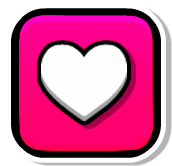
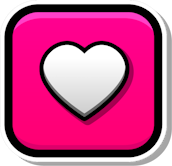
update textures!

diff --git a/src/globed/integrity.cpp b/src/globed/integrity.cpp
@@ -10,7 +10,7 @@ using namespace geode::prelude;
 static bool g_checked = false;
 static bool g_disable = false;
 static bool g_fallbackMenuButton = false;
-constexpr auto RESOURCE_DUMMY = "dummy-icon1.png"_spr;
+constexpr auto RESOURCE_DUMMY = "dummy-icon2.png"_spr;
 
 bool globed::softDisabled() {
     if (!g_checked) {
@@ -131,11 +131,11 @@ globed::IntegrityReport globed::getIntegrityReport() {
         log::error("Failed to find globedsheet1.plist (critical!)");
         report.sheetIntegrity = SheetIntegrity::MissingPlist;
     } else if (!asp::fs::equivalent(pngParent, plistParent).unwrapOr(false)) {
-        log::debug("Mismatch, globedsheet1.plist and globedsheet1.png are in different places ({} and {})", p, plist);
+        log::warn("Mismatch, globedsheet1.plist and globedsheet1.png are in different places ({} and {})", p, plist);
         report.sheetIntegrity = SheetIntegrity::Ok;
         report.sheetFilesSeparated = true;
     } else if (!asp::fs::equivalent(pngParent, Mod::get()->getResourcesDir())) {
-        log::debug("Mismatch, globedsheet1 expected in {}, found at {}", Mod::get()->getResourcesDir(), p);
+        log::warn("Mismatch, globedsheet1 expected in {}, found at {}", Mod::get()->getResourcesDir(), p);
         report.sheetIntegrity = SheetIntegrity::Ok;
         report.sheetFilesModified = true;
     }
@@ -155,7 +155,7 @@ globed::IntegrityReport globed::getIntegrityReport() {
 
     if (asp::fs::exists(impostorFolderLoc)) {
         report.impostorFolder = impostorFolderLoc;
-        log::debug("Impostor folder found: {}", impostorFolderLoc.string());
+        log::warn("Impostor folder found: {}", impostorFolderLoc.string());
     }
 
     // check for menuicon.png and dummy-icon1.png

diff --git a/src/ui/menu/main/globed_menu_layer.cpp b/src/ui/menu/main/globed_menu_layer.cpp
@@ -137,7 +137,7 @@ bool GlobedMenuLayer::init() {
     }
 
     // discord button
-    discordButton = Build<CCSprite>::createSpriteName("gj_discordIcon_001.png")
+    discordButton = Build<CCSprite>::createSpriteName("icon-discord.png"_spr)
         .scale(1.35f)
         .intoMenuItem([](auto) {
             geode::createQuickPopup("Open Discord", "Join our <cp>Discord</c> server?\n\n<cr>Important: By joining the Discord server, you agree to being at least 13 years of age.</c>", "No", "Yes", [] (auto fl, bool btn2) {
@@ -151,7 +151,7 @@ bool GlobedMenuLayer::init() {
         .collect();
 
     // settings button
-    settingsButton = Build<CCSprite>::createSpriteName("accountBtn_settings_001.png")
+    settingsButton = Build<CCSprite>::createSpriteName("icon-settings.png"_spr)
         .intoMenuItem([](auto) {
             util::ui::switchToScene(GlobedSettingsLayer::create());
         })

diff --git a/src/ui/menu/servers/server_layer.cpp b/src/ui/menu/servers/server_layer.cpp
@@ -49,7 +49,7 @@ bool GlobedServersLayer::init() {
         .collect();
 
     // central server switcher
-    Build<CCSprite>::createSpriteName("accountBtn_myLevels_001.png")
+    Build<CCSprite>::createSpriteName("icon-server-folder.png"_spr)
         .with([&](auto* spr) {
             util::ui::rescaleToMatch(spr, {43.f, 41.5f});
         })
@@ -64,7 +64,7 @@ bool GlobedServersLayer::init() {
         .parent(buttonMenu);
 
     // settings button
-    Build<CCSprite>::createSpriteName("accountBtn_settings_001.png")
+    Build<CCSprite>::createSpriteName("icon-settings.png"_spr)
         .with([&](auto* spr) {
             util::ui::rescaleToMatch(spr, {43.f, 41.5f});
         })

diff --git a/changelog.md b/changelog.md
@@ -21,6 +21,7 @@
 * Add GDPS detection, warn user if trying to connect to the main server on a GDPS (thanks [km7dev](user:7236822) for the mod Server API!)
 * Show a more descriptive popup when getting muted / banned
 * If trying to talk while muted, the icon above the player will reflect the mute state
+* Improve textures of some buttons
 * Fix error 10038 when trying to connect to a server
 * Fix crashing when connecting to a server that is down
 * Fix very rare crash when closing the Globed layer
